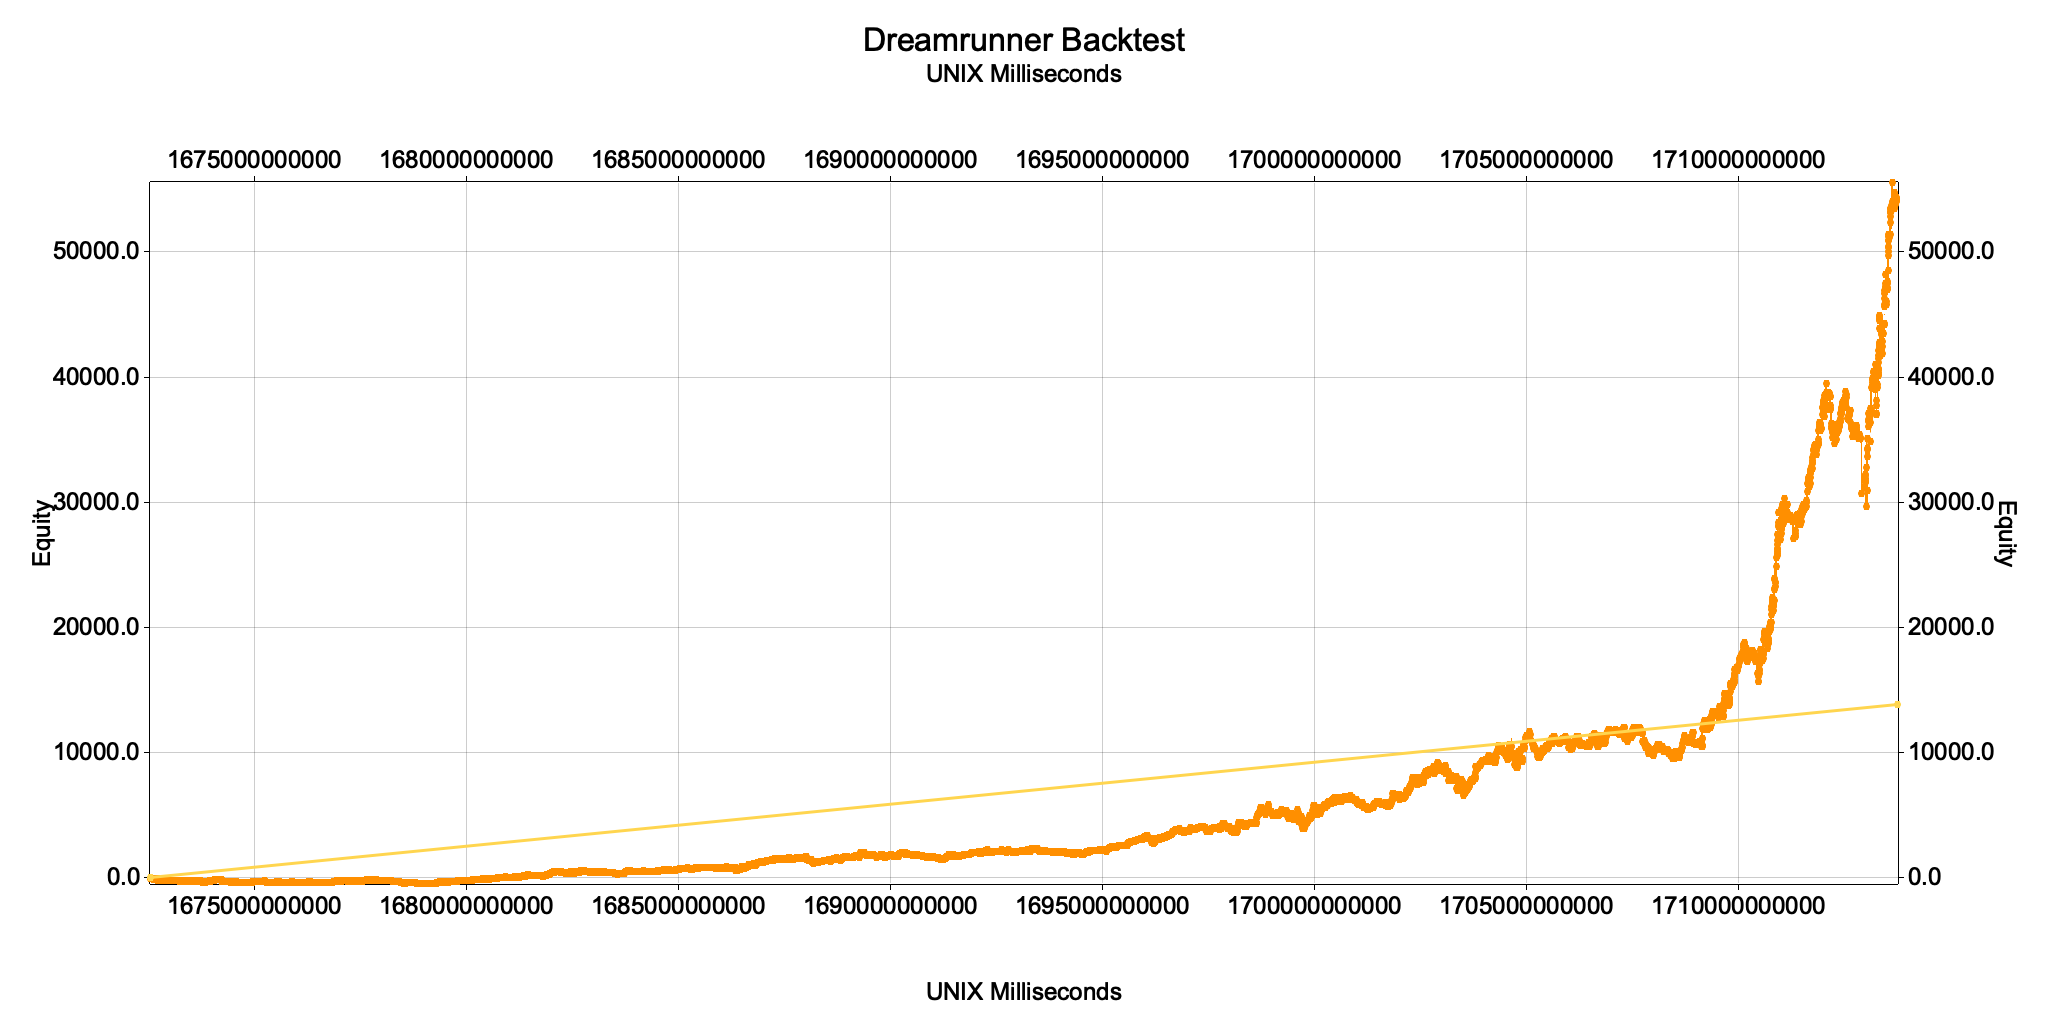
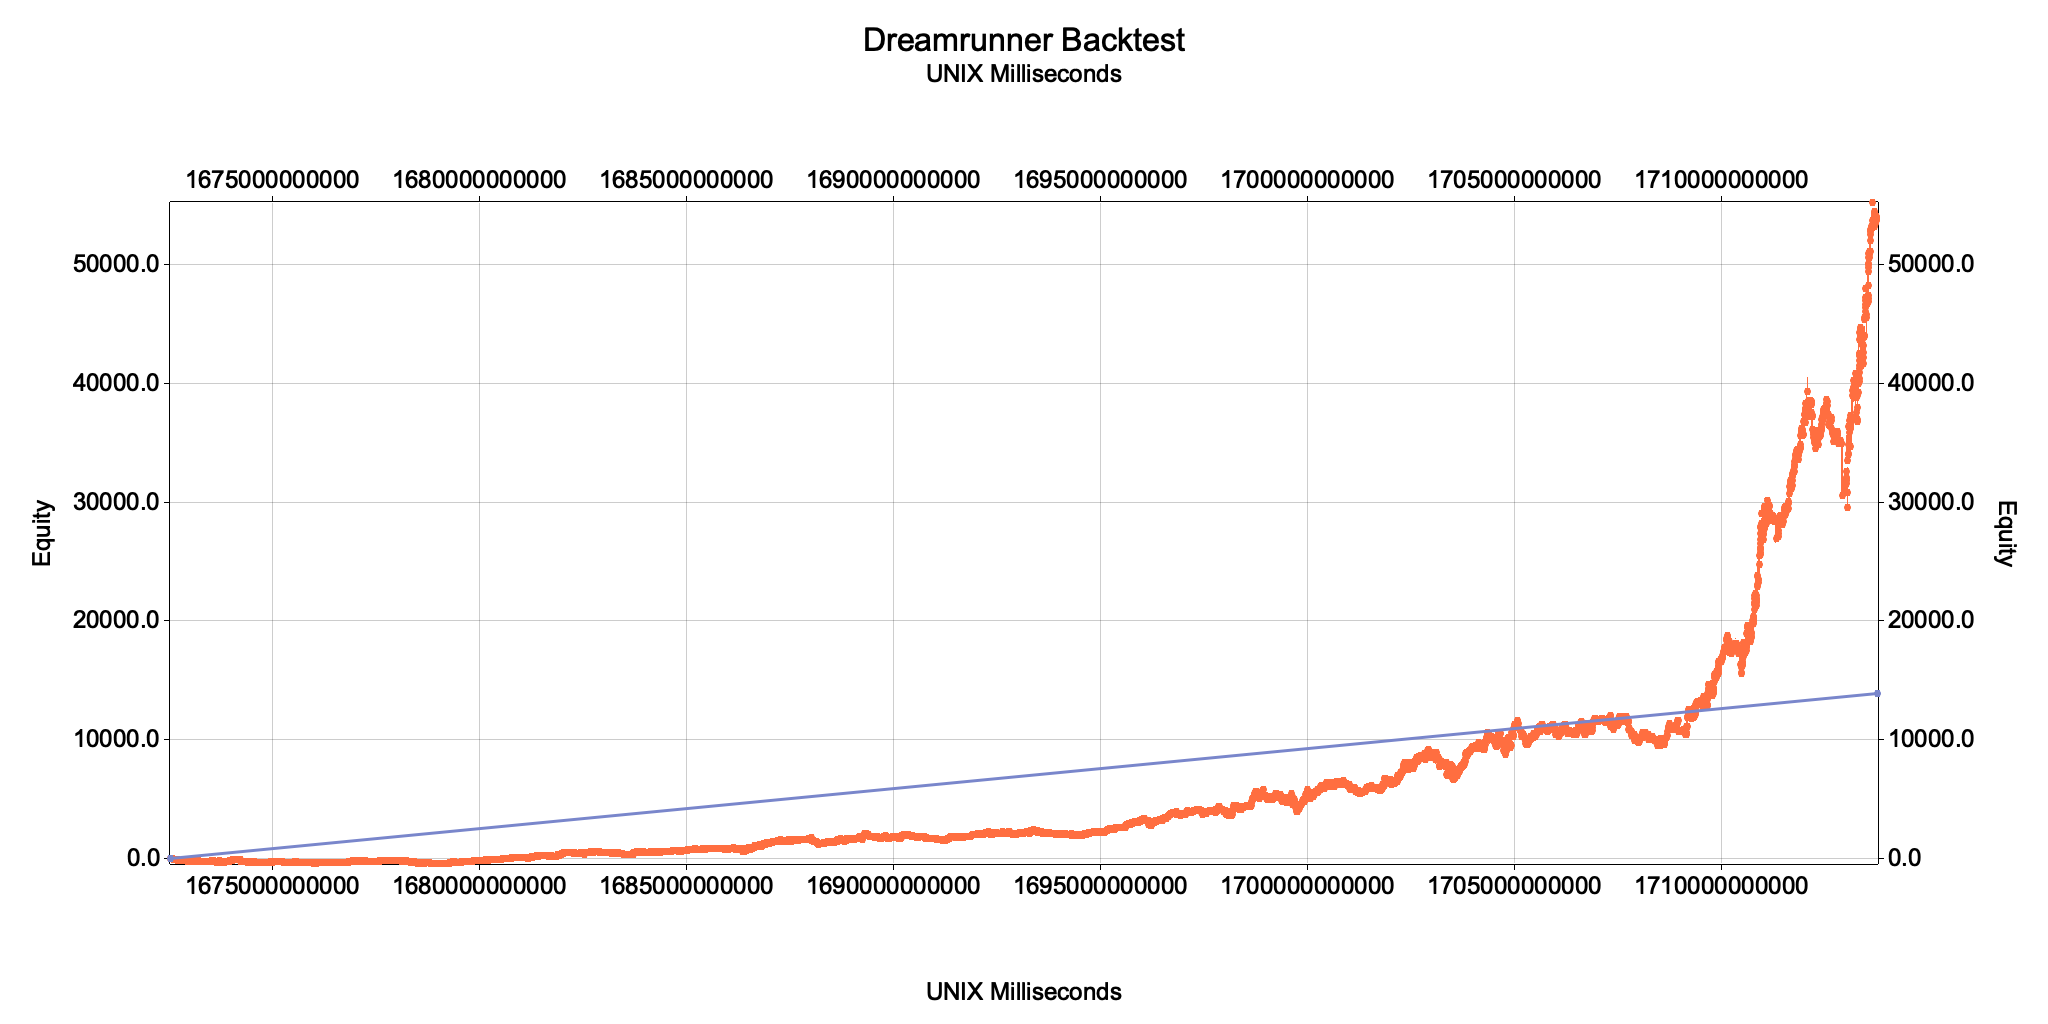
factor fees into backtest

diff --git a/dreamrunner/src/backtest.rs b/dreamrunner/src/backtest.rs
@@ -28,14 +28,17 @@ pub struct Trade {
 #[derive(Debug, Clone, Default)]
 pub struct Backtest {
   pub capital: f64,
+  /// Fee in percentage
+  pub fee: f64,
   pub candles: Vec<Candle>,
   pub trades: Vec<Trade>,
   pub signals: Vec<Signal>
 }
 impl Backtest {
-  pub fn new(capital: f64) -> Self {
+  pub fn new(capital: f64, fee: f64) -> Self {
     Self {
       capital,
+      fee,
       candles: Vec::new(),
       trades: Vec::new(),
       signals: Vec::new()
@@ -84,7 +87,7 @@ impl Backtest {
         };
         self.add_signal(signal);
       }
-      
+
       self.add_candle(candle);
     }
     // only take candles greater than a timestamp
@@ -105,7 +108,7 @@ impl Backtest {
 
     Ok(())
   }
-  
+
   pub async fn add_klines(&mut self, account: &Account, start_time: Option<Time>, end_time: Option<Time>) -> anyhow::Result<()> {
     let days_back = match (start_time, end_time) {
       (Some(start), Some(end)) => {
@@ -119,7 +122,7 @@ impl Backtest {
     println!("days back: {}", days_back);
     let mut klines = account.kline_history(days_back).await?;
     klines.sort_by(|a, b| a.open_time.cmp(&b.open_time));
-    
+
     for kline in klines.into_iter() {
       self.add_candle(kline.to_candle());
     }
@@ -138,7 +141,7 @@ impl Backtest {
         (None, None) => true
       }
     });
-    
+
     Ok(())
   }
 
@@ -153,7 +156,7 @@ impl Backtest {
   pub fn add_signal(&mut self, signal: Signal) {
     self.signals.push(signal);
   }
-  
+
   pub fn reset(&mut self) {
     self.trades.clear();
     self.signals.clear();
@@ -165,7 +168,7 @@ impl Backtest {
     }).sum::<f64>() / self.trades.len() as f64;
     Ok(trunc!(avg, 4))
   }
-  
+
   /// Assumes trading with static position size (e.g. $1000 every trade) and not reinvesting profits.
   pub fn backtest_tradingview(&self) -> anyhow::Result<Summary> {
     let capital = self.capital;
@@ -175,7 +178,7 @@ impl Backtest {
     let mut quote_data = Vec::new();
     let mut winners = 0;
     let mut total_trades = 0;
-    
+
     // filter out None signals
     let signals = signals.iter().filter(|s| {
       !matches!(s, Signal::None)
@@ -190,6 +193,8 @@ impl Backtest {
 
           let pct_pnl = ((exit - entry) / entry * factor) * 100.0;
           let quote_pnl = pct_pnl / 100.0 * capital;
+          let fee = self.fee / 100.0;
+          let quote_pnl = quote_pnl - (quote_pnl * fee);
 
           quote += quote_pnl;
 
@@ -197,7 +202,7 @@ impl Backtest {
             winners += 1;
           }
           total_trades += 1;
-          
+
           quote_data.push(Data {
             x: date.to_unix_ms(),
             y: trunc!(quote, 4)
@@ -215,7 +220,7 @@ impl Backtest {
             winners += 1;
           }
           total_trades += 1;
-          
+
           quote_data.push(Data {
             x: date.to_unix_ms(),
             y: trunc!(quote, 4)
@@ -233,7 +238,7 @@ impl Backtest {
       (max, drawdown)
     });
     let max_pct_drawdown = quote_drawdown / max_quote * 100.0;
-    
+
     Ok(Summary {
       roi: trunc!(quote, 4),
       pnl: trunc!(quote / capital * 100.0, 4),
@@ -248,10 +253,10 @@ impl Backtest {
   }
 
   /// Assumes trading with static position size (e.g. $1000 every trade) and not reinvesting profits.
-  pub fn pnl(&mut self) -> anyhow::Result<Summary> {
+  pub fn summary(&mut self) -> anyhow::Result<Summary> {
     let mut capital = self.capital;
     let initial_capital = capital;
-    
+
     let mut quote = 0.0;
     let mut quote_data = Vec::new();
     let mut winners = 0;
@@ -267,8 +272,9 @@ impl Backtest {
         Order::Short => -1.0,
       };
       let pct_pnl = ((exit.get().price - entry.get().price) / entry.get().price * factor) * 100.0;
-      // let quote_pnl = pct_pnl / 100.0 * entry.quantity * entry.price;
       let quote_pnl = pct_pnl / 100.0 * capital;
+      let fee = self.fee / 100.0;
+      let quote_pnl = quote_pnl - (quote_pnl * fee);
 
       let quantity = capital / entry.get().price;
       let updated_entry = Trade {
@@ -301,10 +307,10 @@ impl Backtest {
       };
       Cell::swap(exit, &Cell::from(updated_exit));
     }
-    
+
     // set self.trades to slice_of_cells
     self.trades = slice_of_cells.iter().map(|cell| cell.get()).collect();
-    
+
     let avg_quote_pnl = quote_data.iter().map(|d| d.y).sum::<f64>() / quote_data.len() as f64;
     let avg_pct_pnl = avg_quote_pnl / initial_capital * 100.0;
     let win_rate = (winners as f64 / total_trades as f64) * 100.0;
@@ -314,7 +320,7 @@ impl Backtest {
       (max, drawdown)
     });
     let max_pct_drawdown = quote_drawdown / max_quote * 100.0;
-    
+
     Ok(Summary {
       roi: trunc!(quote, 4),
       pnl: trunc!((capital - initial_capital) / initial_capital * 100.0, 4),
@@ -389,16 +395,16 @@ impl Backtest {
   pub fn buy_and_hold(
     &mut self,
   ) -> anyhow::Result<Vec<Data>> {
-    
+
     let start_capital = self.capital;
 
     let candles = self.candles.clone();
     let first = candles.first().unwrap();
     let last = candles.last().unwrap();
-    
+
     let pct_pnl = ((last.close - first.close) / first.close) * 100.0;
     let quote_pnl = pct_pnl / 100.0 * start_capital;
-    
+
     Ok(vec![
       Data {
         x: first.date.to_unix_ms(),
@@ -489,13 +495,14 @@ async fn backtest() -> anyhow::Result<()> {
   dotenv::dotenv().ok();
 
   let capital = 1_000.0;
+  let fee = 0.15;
 
   let start_time = Time::new(2023, &Month::from_num(1), &Day::from_num(1), None, None, None);
   let end_time = Time::new(2024, &Month::from_num(4), &Day::from_num(22), None, None, None);
 
   let out_file = "solusdt_30m.csv";
   let csv = PathBuf::from(out_file);
-  let mut backtest = Backtest::new(capital);
+  let mut backtest = Backtest::new(capital, fee);
   backtest.add_csv_series(&csv, Some(start_time), Some(end_time))?;
 
   let k_src = Source::Close;
@@ -503,24 +510,17 @@ async fn backtest() -> anyhow::Result<()> {
   let k_rev = 0.03;
   let wma_period = 4;
 
-  #[derive(Debug, Clone)]
-  struct BacktestResult {
-    pub k_rev: f64,
-    pub wma_period: usize,
-    pub summary: Summary
-  }
-  
   backtest.backtest(
     wma_period,
     k_rev,
     k_src,
     ma_src
   )?;
-  let summary = backtest.pnl()?;
+  let summary = backtest.summary()?;
 
   println!("==== Dreamrunner Backtest ====");
   summary.print();
-  
+
   Plot::plot(
     vec![summary.roi_data, backtest.buy_and_hold()?],
     "dreamrunner_backtest.png",
@@ -539,29 +539,30 @@ async fn optimize() -> anyhow::Result<()> {
   dotenv::dotenv().ok();
 
   let capital = 1_000.0;
+  let fee = 0.15;
 
   let start_time = Time::new(2023, &Month::from_num(1), &Day::from_num(1), None, None, None);
   let end_time = Time::new(2024, &Month::from_num(4), &Day::from_num(22), None, None, None);
 
   let out_file = "solusdt_30m.csv";
   let csv = PathBuf::from(out_file);
-  let mut backtest = Backtest::new(capital);
+  let mut backtest = Backtest::new(capital, fee);
   backtest.add_csv_series(&csv, Some(start_time), Some(end_time))?;
-  
+
   let k_src = Source::Close;
   let ma_src = Source::Open;
-  
+
   #[derive(Debug, Clone)]
   struct BacktestResult {
     pub k_rev: f64,
     pub wma_period: usize,
     pub summary: Summary
   }
-  
+
   let mut results = vec![];
   for i in 0..10 {
     let k_rev = trunc!(0.01 + (i as f64 * 0.01), 4);
-    
+
     for j in 0..50 {
       let wma_period = j + 1;
       backtest.backtest(
@@ -570,7 +571,7 @@ async fn optimize() -> anyhow::Result<()> {
         k_src,
         ma_src
       )?;
-      let summary = backtest.pnl()?;
+      let summary = backtest.summary()?;
       results.push(BacktestResult {
         k_rev,
         wma_period,
@@ -586,9 +587,9 @@ async fn optimize() -> anyhow::Result<()> {
   println!("WMA Period: {}", optimized.wma_period);
   println!("Kagi Rev: {}", optimized.k_rev);
   let summary = optimized.summary;
-  
+
   summary.print();
-  
+
   Plot::plot(
     vec![summary.roi_data],
     "optimized_backtest.png",

diff --git a/server/src/main.rs b/server/src/main.rs
@@ -164,8 +164,8 @@ async fn plot_pnl(account: Data<Arc<Account>>) -> DreamrunnerResult<HttpResponse
       .pnl(account.ticker.clone()).await?;
     
     Plot::plot(
-        vec![res.quote_data],
-        "quote_pnl.png",
+        vec![res.roi_data],
+        "dreamrunner_roi.png",
         "Quote Pnl",
         QUOTE_ASSET
     )?;

diff --git a/time_series/src/plot.rs b/time_series/src/plot.rs
@@ -44,7 +44,7 @@ impl Plot {
       .margin_bottom(20)
       .margin_left(30)
       .margin_right(30)
-      .set_all_label_area_size(120)
+      .set_all_label_area_size(140)
       .caption(
         title,
         ("sans-serif", 40.0).into_font(),
